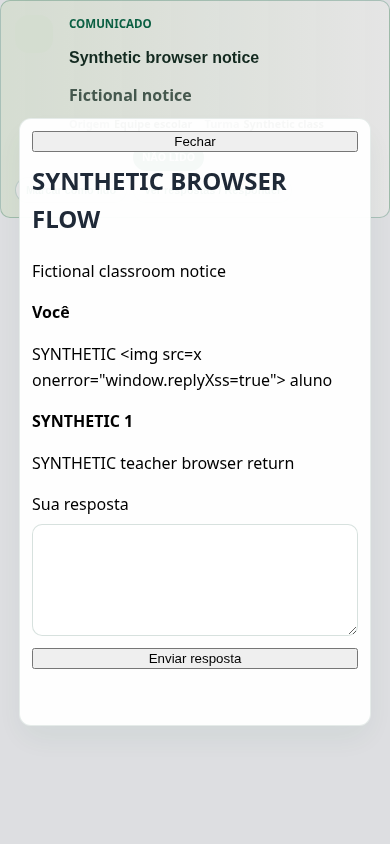
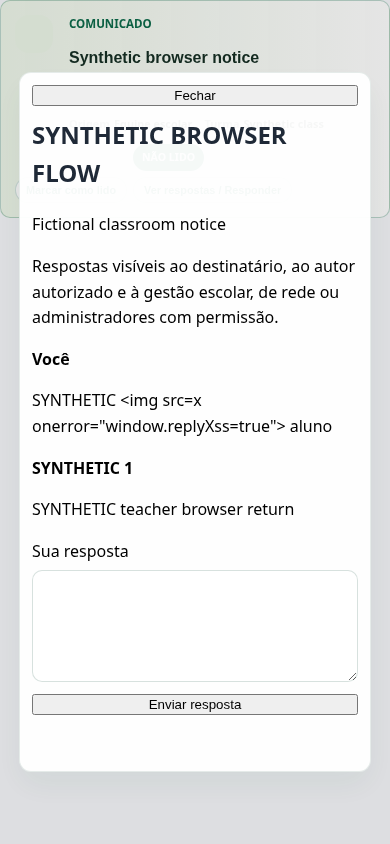
test(qa): cover guardian revocation and response loss after commit

diff --git a/qa/fase3/REPLIES_REVIEW.md b/qa/fase3/REPLIES_REVIEW.md
@@ -1,10 +1,10 @@
 # Respostas a comunicados — proposta separada da correção de segurança
 
-Branch `review/fase3-communication-replies`, derivada de `review/fase3-synthetic-journeys` / `312f3ab`. Não contém FASE2. SQL novo somente em `supabase/review/fase3_communication_replies.sql`; não aplicado em produção.
+Branch `review/fase3-communication-replies`, derivada de `review/fase3-synthetic-journeys` (inclui a correção de snapshots de PR2). Não contém FASE2. SQL novo somente em `supabase/review/fase3_communication_replies.sql`; não aplicado em produção.
 
 ## Fatia implementada
 
-Aviso publicado pelo fluxo existente → destinatário abre respostas → envia texto → professor abre conversa do destinatário e responde → aluno recarrega e vê retorno persistido. Web: professor, aluno e família recebem o botão “Ver respostas / Responder”; notificações automáticas com source_type não recebem o botão. Cada conversa pertence a uma entrega individual: nem colegas da mesma turma veem a conversa alheia.
+Aviso publicado pelo fluxo existente → destinatário abre respostas → envia texto → professor abre conversa do destinatário e responde → aluno recarrega e vê retorno persistido. Web: após ativação coordenada, professor, aluno e família recebem o botão “Ver respostas / Responder”; notificações automáticas com source_type não recebem o botão. Cada conversa pertence a uma entrega individual: nem colegas da mesma turma veem a conversa alheia.
 
 O componente usa RPCs reais; não salva respostas em localStorage nem em fixtures. Em falha de envio mantém o texto e permite repetir com a mesma chave idempotente. Só mostra “Resposta enviada” após confirmação do servidor. Se salvar funcionar mas a atualização da conversa falhar, informa envio concluído e pede reabrir, evitando reenviar involuntariamente. Texto é renderizado por textContent, sem HTML do usuário.
 
@@ -12,16 +12,16 @@ O componente usa RPCs reais; não salva respostas em localStorage nem em fixture
 
 Nova tabela `communication_replies` com RLS habilitada e sem grants diretos a anon/authenticated/service_role. Três RPCs permitem listar conversas do autor/gestão autorizada, consultar uma entrega autorizada e enviar resposta. Helper em schema privado, sem EXECUTE de aplicação. Os três novos EXECUTEs authenticated são novos pontos de acesso e precisam da revisão específica antes de produção. Não houve modificação de usuários, senhas, Auth ou importação.
 
-Autorização deriva de communication_deliveries e da permissão canônica de leitura/gestão, revalidada no servidor. Exige perfil ativo, comunicado publicado/não retirado/não vencido, mesmo school_id da entrega e comunicado. Destinatário não lista outros destinatários. Gestor/secretaria pode acessar somente a escola que já administra. Respostas a notificações automáticas estão bloqueadas. Lock compartilhado no comunicado serializa o envio com retirada/exclusão. Chave única por entrega/autor/request_id evita duplicação; reutilizar chave com outro texto é erro.
+Autorização revalida a entrega e o aluno específico dela, sem reutilizar a permissão agregada de leitura por qualquer filho. Exige perfil ativo, comunicado publicado/não retirado/não vencido, mesmo school_id da entrega e comunicado. Destinatário não lista outros destinatários. **Alcance administrativo:** `secretaria_can_manage_school` também permite gestores de escola/rede e administradores canônicos ler e enviar respostas; não é uma conversa exclusiva professor–destinatário. Não foram adicionados papéis ao helper canônico. Esse alcance aparece no modal e precisa de confirmação específica junto com os novos RPCs antes de produção. Respostas a notificações automáticas estão bloqueadas. Lock compartilhado no comunicado serializa o envio com retirada/exclusão. Chave única por entrega/autor/request_id evita duplicação; reutilizar chave com outro texto é erro.
 
 Retirada/vencimento impede leitura e envio nesta primeira versão; republicar recupera a conversa. Não há edição/exclusão de respostas, anexos, notificações push/e-mail ou confirmação de leitura de cada resposta. A leitura existente continua referindo-se ao aviso original, não às respostas.
 
 ## Evidências e limites
 
-- `node qa/fase3/run.mjs`: **25 PASS / 0 FAIL** nesta branch. Engloba os 23 casos anteriores e dois grupos novos de API/navegador.
+- `node qa/fase3/run.mjs`: **27 PASS / 0 FAIL** nesta branch. Engloba os 24 casos de PR2 e três grupos de respostas/API/navegador.
 - Paridade readonly: 12 funções da segurança + 6 dependências de comunicação, com hash/assinatura/ACL/GUC conferidos localmente antes dos testes. `reply-production-parity.json` e `local-parity.json`.
 - API: conversa aluno→professor→aluno, idempotência, isolamento contra outra escola e contra colega da mesma turma, matrícula encerrada, parâmetros nulos, mensagem vazia, chave conflitante, ACL de tabela, retirada/republicação/vencimento.
-- Chromium instalado no executor, via Playwright: componente real + renderer real do card do aluno, hospedados em página sintética com CSS real; backend PostgREST real isolado. Testa falha HTTP503 sem perder texto, retry, resposta do professor, recarregar persistência, texto com markup sem execução, bloqueio da outra escola e largura de 390px sem overflow. `replies-browser.png` é evidência desse componente, não homologação visual da aplicação completa.
+- Chromium instalado no executor, via Playwright: componente real + renderer real do card do aluno, hospedados em página sintética com CSS real; backend PostgREST real isolado. Testa falha HTTP503 antes de salvar e perda da confirmação HTTP depois do commit, fechar/reabrir modal e repetir sem duplicar, resposta do professor, recarregar persistência, texto com markup sem execução, bloqueio da outra escola e largura de 390px sem overflow. `replies-browser.png` é evidência desse componente, não homologação visual da aplicação completa.
 - O download adicional de Chromium retornou 403; não foi contornado. Foi usado o Chromium já instalado em `/usr/bin/chromium`. Para reproduzir, disponibilizar Playwright e Chromium nesse caminho; o teste falha se não estiverem disponíveis, não faz skip silencioso.
 - `node --check app-pages.js`, `node --check communication-replies.js`, `git diff --check`; build **4275 arquivos**, operacional/SQL fora do dist.
 
@@ -29,6 +29,17 @@ A jornada avaliação docente→aluno→resultado permanece validada ponta a pon
 
 ## Desenvolvimento separado ainda necessário
 
-O app Expo continua sem publicação/resolução/entrega reais de avaliação e sem resultados docentes preenchidos. A nova conversa ainda não foi portada para Expo: não declarar paridade web/app. A rota de família ganhou affordance, mas esta rodada não fez navegação completa autenticada de responsável com múltiplos filhos. Edição do aviso original também continua bloqueada/ausente na rota inspecionada. Estes pontos não são placeholders “prontos”: são pendências para próximas fatias.
+O app Expo continua sem publicação/resolução/entrega reais de avaliação e sem resultados docentes preenchidos. A nova conversa ainda não foi portada para Expo: não declarar paridade web/app. A rota de família ganhou affordance condicionada ao gate; os dois modelos de vínculo e múltiplos filhos foram exercitados na API, sem navegação completa autenticada da família. Edição do aviso original também continua bloqueada/ausente na rota inspecionada. Estes pontos não são placeholders “prontos”: são pendências para próximas fatias.
 
 Manter os PRs rascunhos. Revisar SQL primeiro e coordenar aplicação/backend + runtime; nenhum merge/deploy foi executado. Não publicar apenas a UI contra produção sem os RPCs aprovados.
+
+## Correções após revisão independente
+
+- Destinatário com `student_id` precisa ter vínculo com **aquele aluno**, matrícula atual na escola/escopo do comunicado e aluno ativo. Legado `student_guardians`: status ativo. Modelo institucional: `student_guardian_links.status=active`, `guardians.status=active`, `access_status=active`, profile e escola correspondentes. Bloqueado/não configurado não concede acesso. Os modelos não têm coluna de vencimento do vínculo; os testes de vencimento/futuro usam a matrícula.
+- Professor autor precisa de registro docente ativo e autorização canônica para a turma. Perfil ativo sozinho não basta. Destinatários de equipe docente também exigem docente ativo. Gestão continua no escopo canônico descrito acima.
+- Listagem do professor inclui `student_id` e `student_name`, e o botão mostra o aluno, distinguindo irmãos do mesmo responsável. Não muda destinatários nem readtracking do aviso original.
+- SQL agora recusa deriva das seis funções de comunicação observadas (corpo, assinatura, configuração, ACL e EXECUTE). Isso não é certificação de todo o esquema. Nenhuma fixture deve ser instalada em produção.
+- Chave/texto de envio incerto são mantidos em memória, separados por usuário e entrega, até confirmação. Fechar/reabrir modal reutiliza a chave; confirmação remove o pendente. Não há persistência do rascunho após recarregar a página: após reload, conferir a conversa antes de redigir um novo envio. Não se afirma deduplicação semântica de textos iguais enviados como novas mensagens.
+- Gate de rollout **desligado por padrão**: `globalThis.RAIZES_COMMUNICATION_REPLIES_ENABLED` deve ser explicitamente true para renderizar botões/ativar o componente. Somente o host sintético ativa nesta branch. Ativação real depende de revisão/aplicação do backend e confirmação do alcance administrativo; este PR não faz deploy.
+
+Regressões: dois filhos na mesma turma, revogação de apenas um vínculo mantendo o outro, geração de entregas com modelo novo sem legado ativo, vínculo/guardião/acesso inativo, escola errada, matrícula vencida/futura, aluno/professor/perfil inativos, nome do aluno por conversa, acesso administrativo explícito e repetição após commit com confirmação perdida.
